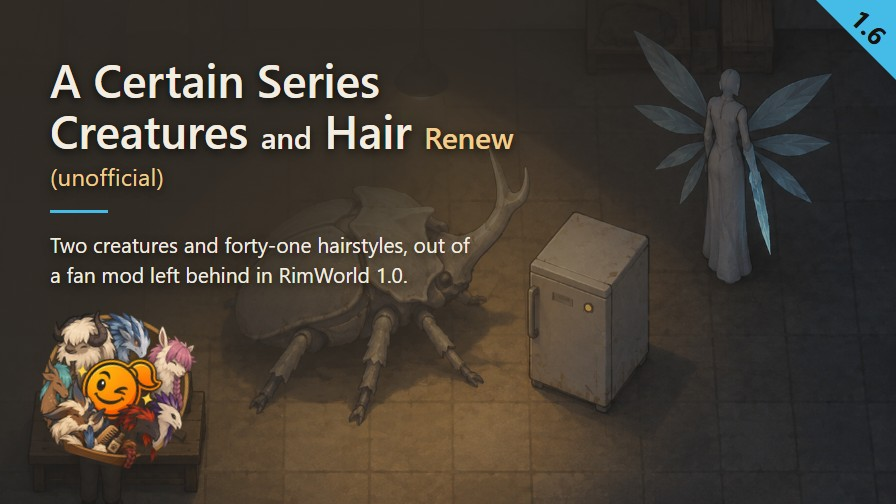
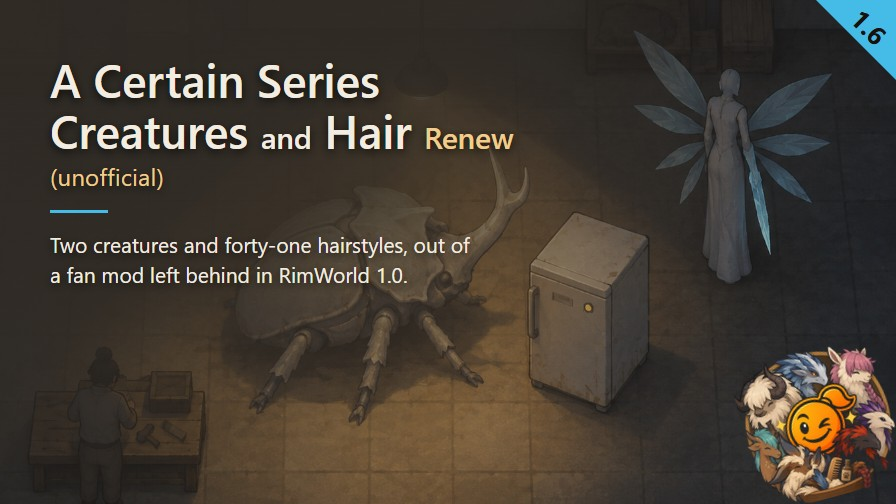
Preview.png: move the ModIcon badge to bottom-right, bled to the frame edges (owner review)
Corner and rotation flipped from bottom-left +15deg to bottom-right -15deg;
the icon now touches the right and bottom edges instead of sitting on a
margin, per the owner's visual review of the first composite.

Changed region(s): [[0.8125, 0.6845, 1.0, 1.0], [0.0312, 0.625, 0.2188, 0.9226]]

diff --git a/STATUS.md b/STATUS.md
@@ -23,12 +23,12 @@ remaining:
   - decision for the owner: the "violence" content box, left unticked (`PUBLICATION.md`, Content boxes)
   - unverified: whether a trader other than the two exotic ones sells the creatures (the description says exotic goods traders only); whether the beetle's vanilla parts (eyes, antennae) have a surgery in Animal Prosthetics 2; the beetle's aggression (subjective, not automated)
   - fragile: `Mod/Patches/NocturnalAnimals.xml` guards on the other mod's display name (`[XND] Nocturnal Animals (Continued)`); `Tests/Test-Mod.ps1` group 14 compares it with the installed copy when present
-  - decision for the owner: `Preview.png` now carries the cut-out `ModIcon.png`, tilted +15° bottom-left (`Art/compose-preview.cjs`, her rule of 2026-09-29); `Art/Workshop/00-preview.jpg` added as its copy. Neither is on the Steam page yet (gallery and preview upload are manual, `update_preview` was off for `1.0.0`): upload both by hand when convenient
+  - decision for the owner: `Preview.png` now carries the cut-out `ModIcon.png`, tilted -15° bottom-right, bled flush to the right and bottom edges per her review (`Art/compose-preview.cjs`, her rule of 2026-09-29); `Art/Workshop/00-preview.jpg` added as its copy. Neither is on the Steam page yet (gallery and preview upload are manual, `update_preview` was off for `1.0.0`): upload both by hand when convenient
   - resolved 2026-09-29: `.github/` regenerated by another session to template `82de20b8aa50` (`3cfcd47`). A dry-run of the exact commit is still needed before the next publish (not replayed since)
   - asked of PickleTools, no reply: Chinese fonts missing in the research-window capture (every project affected); a `forcedMiss` rule for `Check-ConfigErrors.ps1`. A 4 GB core dump from a crashed run of 2026-09-28 has no known path
   - ideas not started: `BACKLOG.md`
 session:      local_62b40a02-9527-4bdd-a977-f6bbd6de409d
-updated:      2026-09-29, Preview.png gets the cut-out ModIcon badge (owner's rule, STYLE_RIMWORLD.md), gallery gains `00-preview.jpg`; docs and evidence trimmed
+updated:      2026-09-29, Preview.png gets the cut-out ModIcon badge, bled bottom-right per owner review (owner's rule, STYLE_RIMWORLD.md), gallery gains `00-preview.jpg`; docs and evidence trimmed
 ---
 
 # A Certain Series - Creatures and Hair Renew — status

diff --git a/PUBLICATION.md b/PUBLICATION.md
@@ -161,7 +161,7 @@ them. Every colonist and creature stands on open ground, no interface, no neighb
 
 | File | What it shows | Source |
 |---|---|---|
-| `00-preview.jpg` | Copy of the delivered `Preview.png` (owner's rule, 2026-09-29, `STYLE_RIMWORLD.md`): the vitrine itself, ModIcon cut out and tilted +15° bottom-left | `Art/compose-preview.cjs`, no recrop |
+| `00-preview.jpg` | Copy of the delivered `Preview.png` (owner's rule, 2026-09-29, `STYLE_RIMWORLD.md`): the vitrine itself, ModIcon cut out and tilted -15° bottom-right, bled flush to the frame edges | `Art/compose-preview.cjs`, no recrop |
 | `01-hairstyle-misaka.jpg` | Rina wearing ACS_misaka, facing the camera, filling most of the frame | Feature 17, ticket `cdfc` |
 | `02-beetle.jpg` | The white rhinoceros beetle, all six legs, horn and elytra visible | Feature 18, ticket `a6f3` |
 | `03-seraph.jpg` | God's Power, all eight wings and the sword | Feature 18, ticket `a6f3` |
